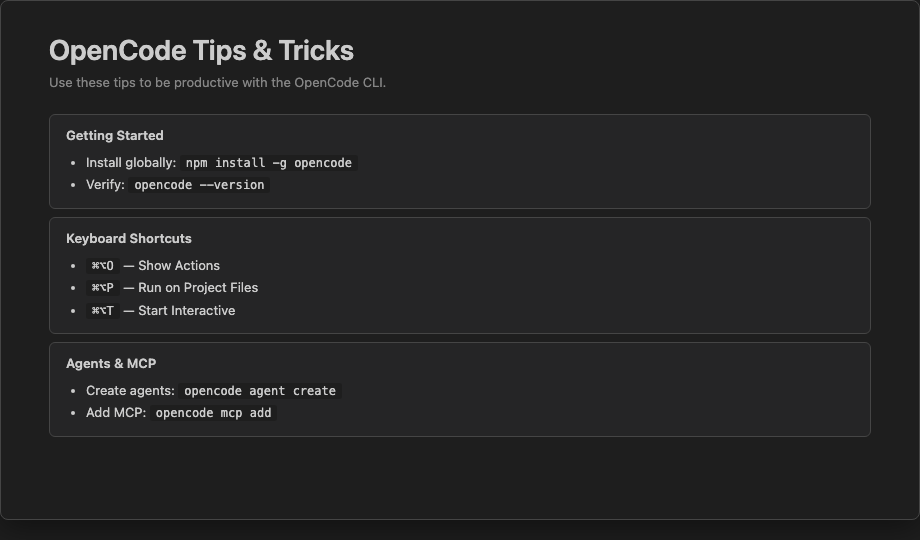
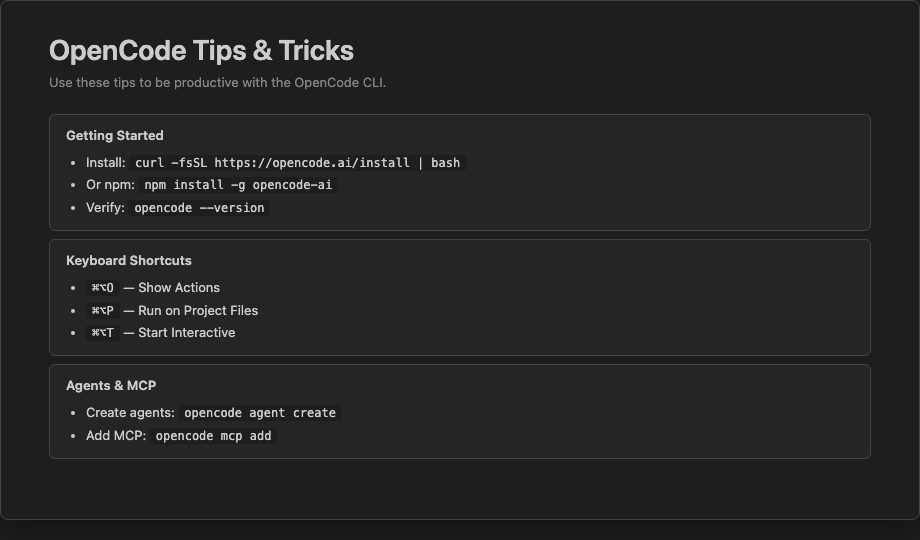
feat: add run-inline-dialog promo screenshot and screenshots CI job
Add a new promotional screenshot (run-inline-dialog) showing the inline
prompt new-session dialog with model selector, agent mode, and branch
context. Regenerate all promo screenshots with Playwright. Add a
dedicated screenshots job to CI that installs Playwright, renders all
screenshots, and uploads them as build artifacts.

Changed region(s): [[0.0609, 0.2963, 0.9435, 0.8296]]

diff --git a/scripts/render-screenshots.js b/scripts/render-screenshots.js
@@ -381,6 +381,121 @@ const screens = {
       </div>
     </div>
   </div></body></html>`,
+
+  'run-inline-dialog': `<!DOCTYPE html><html><head><meta charset="UTF-8"><style>
+  ${baseStyles}
+  .dialog-wrapper {
+    display: flex;
+    align-items: center;
+    justify-content: center;
+    height: 100vh;
+    background: #1e1e1e;
+  }
+  .inline-dialog {
+    width: 680px;
+    background: #252526;
+    border: 1px solid #454545;
+    border-radius: 10px;
+    box-shadow: 0 12px 40px rgba(0,0,0,0.55);
+    overflow: hidden;
+  }
+  .dialog-title {
+    display: flex;
+    align-items: center;
+    gap: 10px;
+    padding: 14px 18px 12px;
+    font-size: 13px;
+    color: #cccccc;
+    border-bottom: 1px solid #3a3a3a;
+  }
+  .dialog-title .breadcrumb { color: #858585; }
+  .dialog-title .breadcrumb span { color: #cccccc; font-weight: 500; }
+  .dialog-title .provider-badge {
+    margin-left: auto;
+    display: flex;
+    align-items: center;
+    gap: 6px;
+    background: #1e1e1e;
+    border: 1px solid #454545;
+    border-radius: 6px;
+    padding: 4px 10px;
+    font-size: 12px;
+    color: #cccccc;
+  }
+  .dialog-textarea {
+    padding: 18px 18px 12px;
+    min-height: 80px;
+    color: #858585;
+    font-size: 14px;
+    line-height: 1.6;
+  }
+  .dialog-footer {
+    display: flex;
+    align-items: center;
+    gap: 8px;
+    padding: 10px 14px;
+    border-top: 1px solid #3a3a3a;
+    font-size: 12px;
+    color: #858585;
+  }
+  .footer-btn {
+    display: flex;
+    align-items: center;
+    gap: 5px;
+    padding: 4px 10px;
+    border-radius: 5px;
+    border: 1px solid #454545;
+    background: transparent;
+    color: #cccccc;
+    font-size: 12px;
+    cursor: default;
+  }
+  .footer-btn .icon { font-size: 14px; opacity: 0.8; }
+  .footer-right {
+    margin-left: auto;
+    display: flex;
+    align-items: center;
+    gap: 14px;
+    color: #858585;
+    font-size: 12px;
+  }
+  .footer-right span { display: flex; align-items: center; gap: 4px; }
+  .submit-btn {
+    width: 24px; height: 24px;
+    background: #0e639c;
+    border-radius: 5px;
+    display: flex;
+    align-items: center;
+    justify-content: center;
+    color: #fff;
+    font-size: 14px;
+    margin-left: 4px;
+  }
+  </style></head><body>
+  <div class="dialog-wrapper">
+    <div class="inline-dialog">
+      <div class="dialog-title">
+        <span class="breadcrumb">New session in <span>opencodeCLI</span> with</span>
+        <div class="provider-badge">
+          <span>🤖</span>
+          <span>claude-sonnet-4</span>
+          <span style="color:#858585">▾</span>
+        </div>
+      </div>
+      <div class="dialog-textarea">Describe what you want to build…</div>
+      <div class="dialog-footer">
+        <div class="footer-btn"><span class="icon">＋</span></div>
+        <div class="footer-btn"><span class="icon">⊙</span> Agent</div>
+        <div class="footer-btn">Auto</div>
+        <div class="footer-right">
+          <span>⊘ Default Approvals</span>
+          <span>⎇ Worktree</span>
+          <span>⑂ master</span>
+          <div class="submit-btn">↵</div>
+        </div>
+      </div>
+    </div>
+  </div></body></html>`,
 };
 
 async function main() {

diff --git a/README.md b/README.md
@@ -74,6 +74,14 @@ In-editor reference panel opened via **OpenCode: Tips & Tricks**.
 
 ![OpenCode Tips and Tricks webview panel](media/screenshots/tips-webview.png)
 
+### Run Inline Prompt dialog
+
+Command **OpenCode: Run Inline Prompt** (`⌘⌥I`) — opens a session dialog where you describe what you want to build, pick a model, and run the prompt directly from VS Code.
+
+**Dialog:** workspace context (e.g. `opencodeCLI`) · model selector (e.g. `claude-sonnet-4`) · prompt text area · agent mode · worktree / branch info
+
+![Run Inline Prompt new-session dialog](media/screenshots/run-inline-dialog.png)
+
 ### Run on Project Files
 
 Command **OpenCode: Run on Project Files** (`⌘⌥P`) — pick workspace files, enter a prompt, run in the integrated terminal.